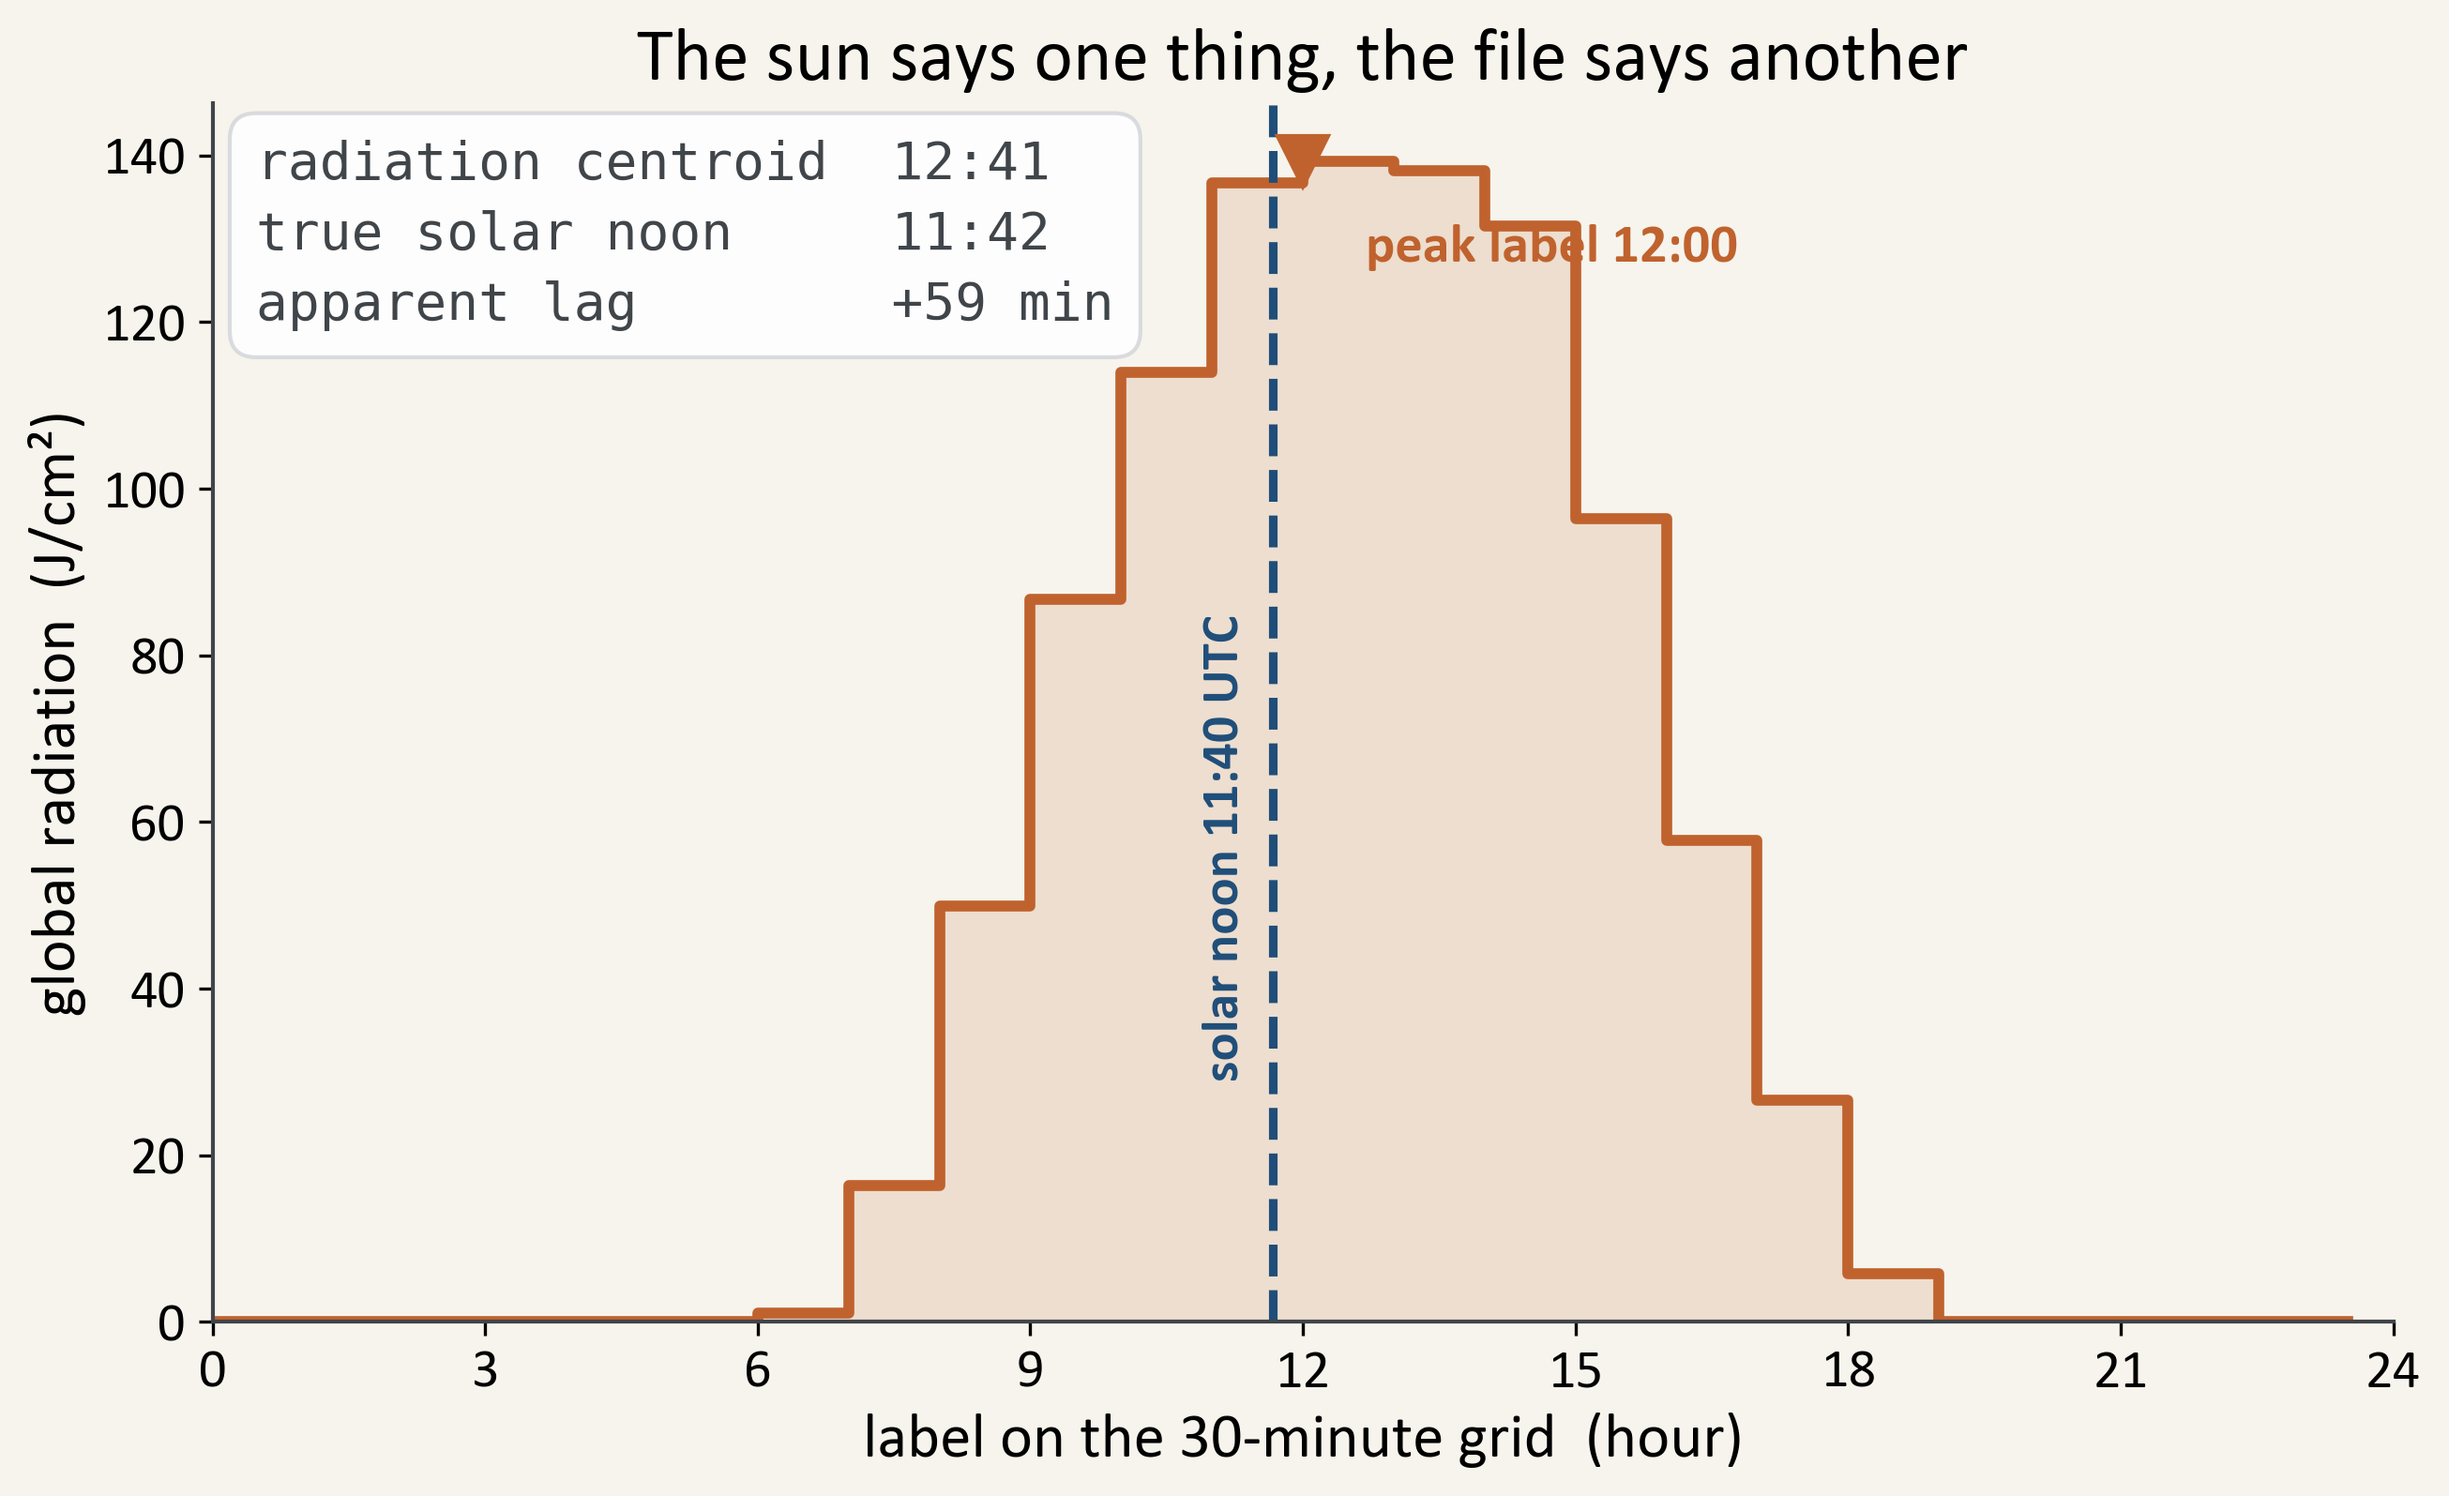
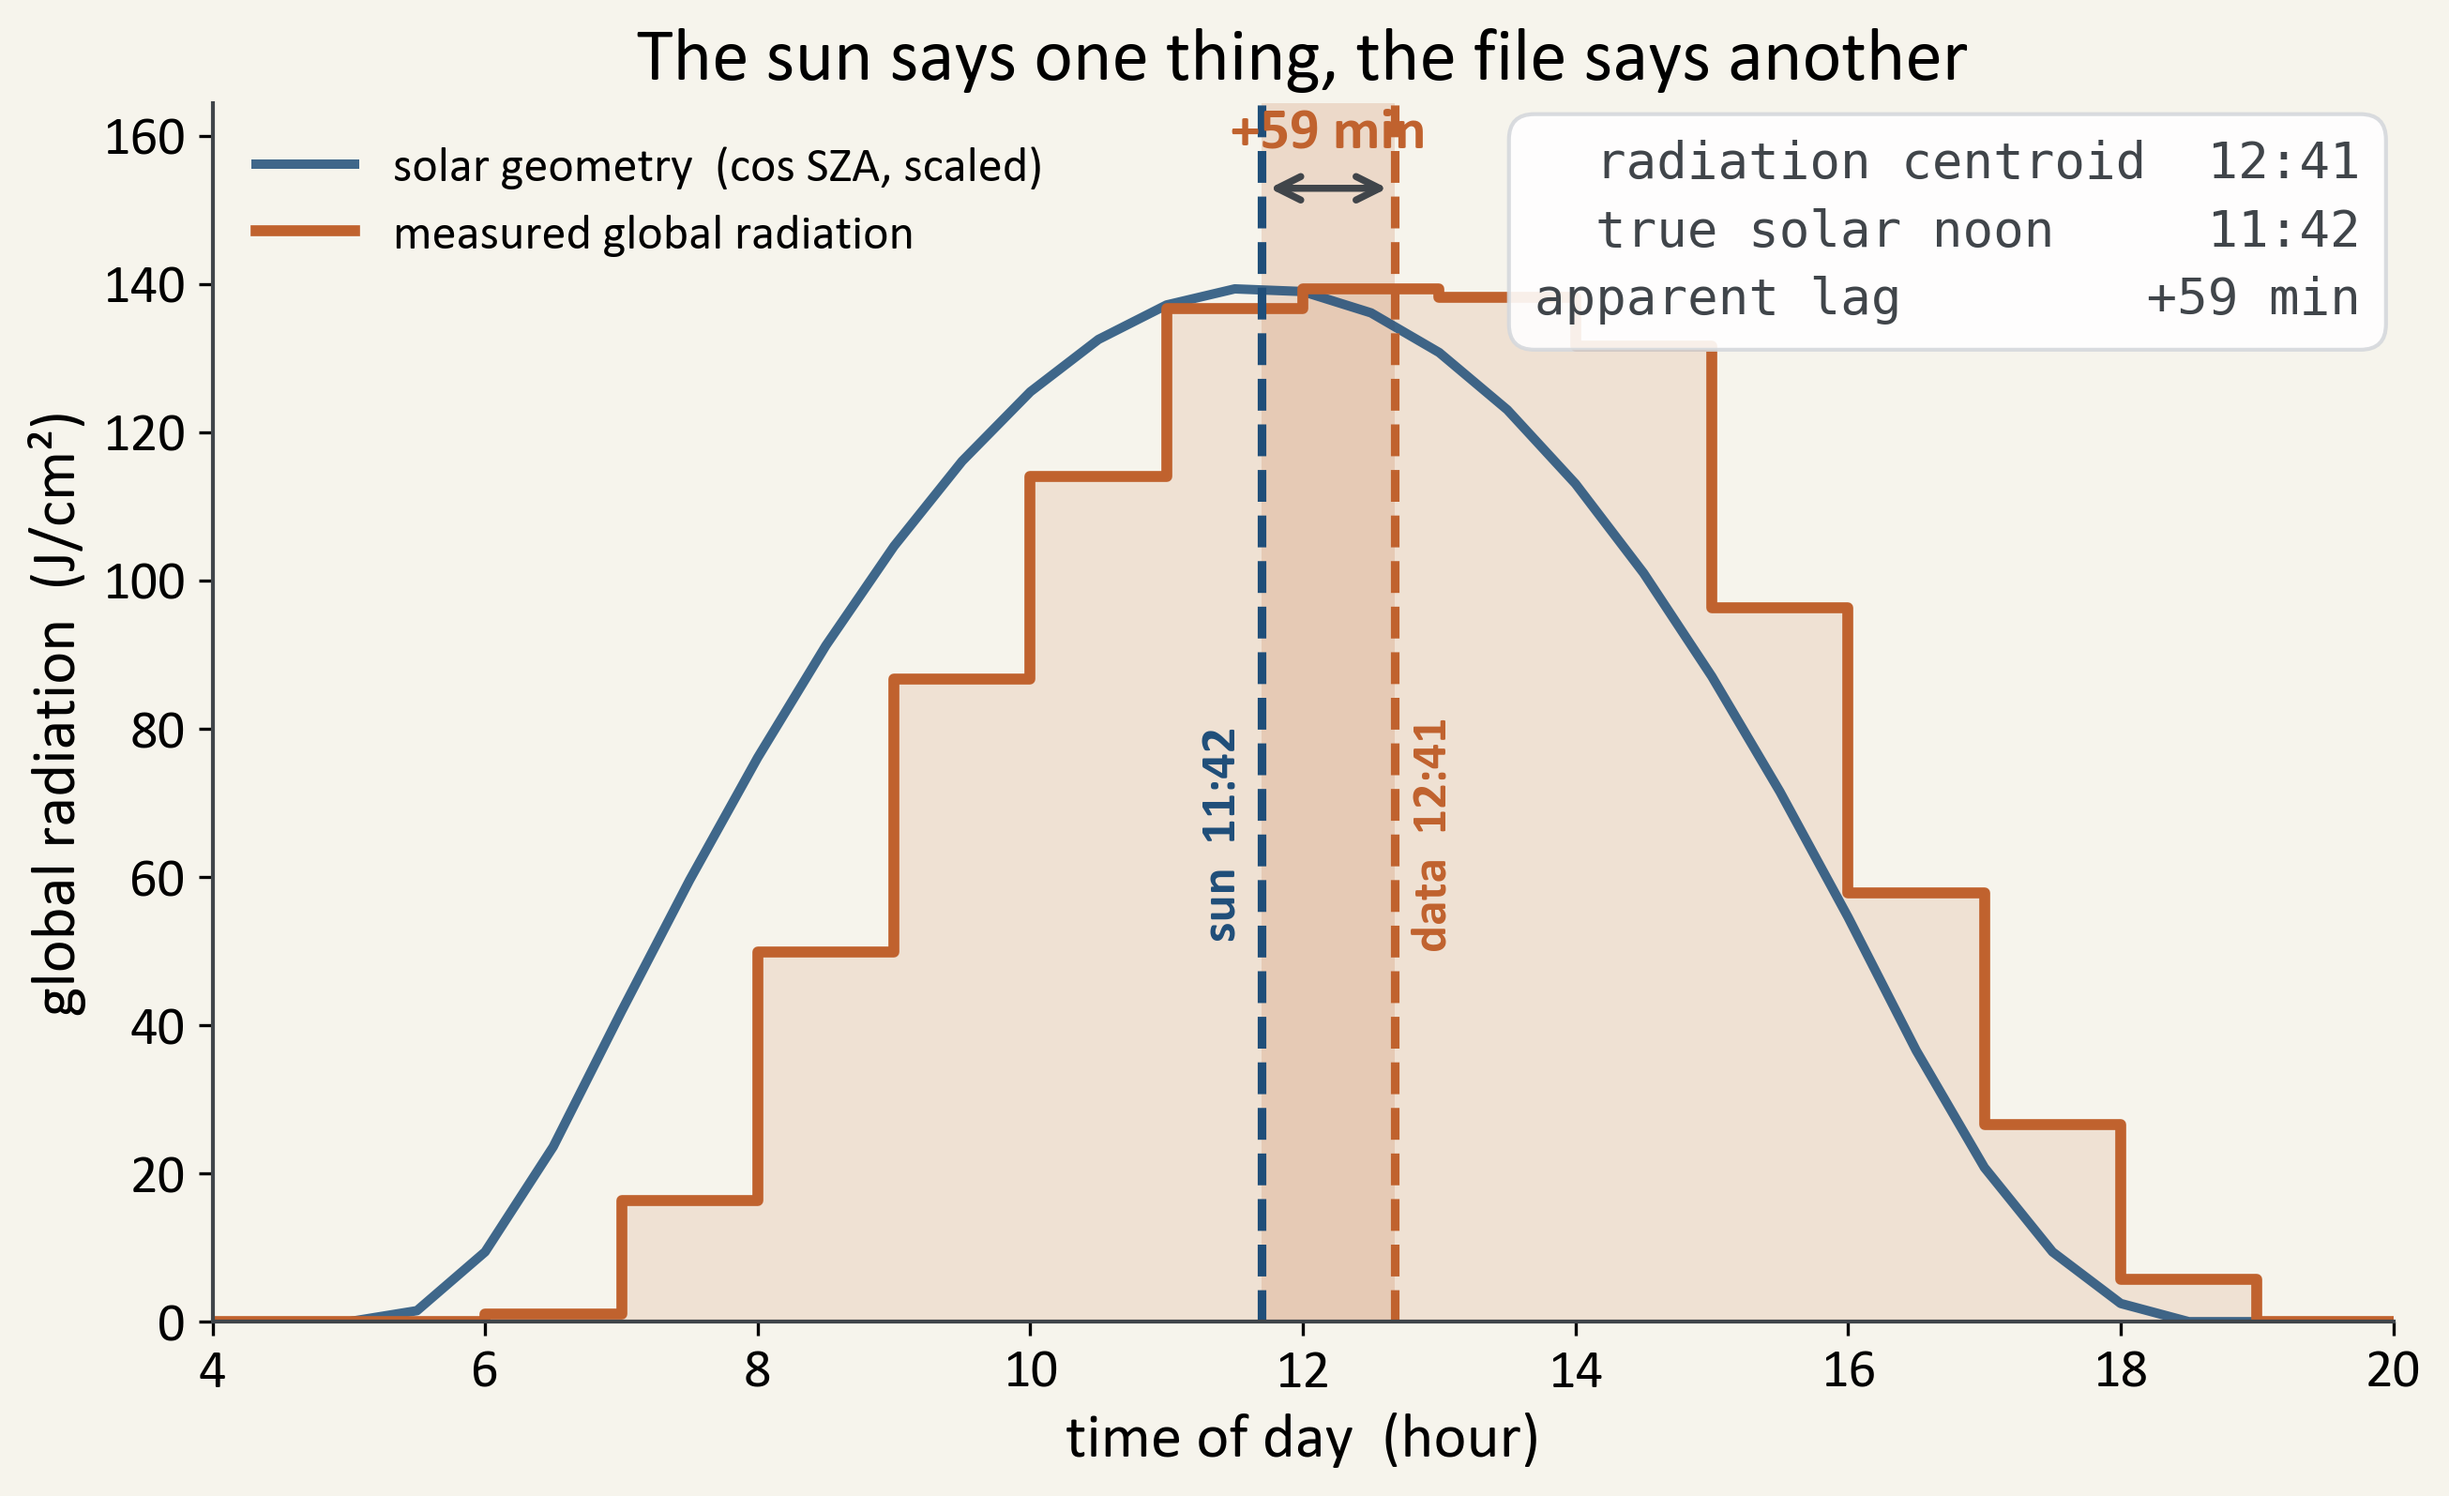
Rebuild the radiation figure so it actually shows the error
Georgios looked at slide18a and said the solar-noon line appeared to sit
on the peak. He was right, and the figure was at fault, not the data.

The campaign-mean radiation profile is a flat-topped plateau - 11:00 to
14:00 varies by under 3 %, and 12:00 and 12:30 are exactly tied at
139.3169 because of the met duplication. A one-hour shift of a plateau
that flat is invisible to the eye, and the +59 min is a property of the
CENTROID, which the old figure never drew. So it asserted the error in a
text box while showing apparent agreement - which would have undercut
him on stage the moment someone said "but the line is at the peak".

New slide18_radiation_before_after.png, which Georgios asked for as a
single figure: solar geometry, met as delivered, and the same met
shifted back an hour, on one axis, with both centroids drawn and the gap
shaded. Comparing two curves shows an offset that comparing a curve to a
line does not. x zoomed to 04-20 h so an hour is a visible fraction of
the width.

Found a convention bug while building it: the first version read +44 min
instead of +59. centroid_of() adds BIN_MID because the radiation values
are bin means whose label precedes the bin centre by 15 min; the solar
geometry is an instantaneous function evaluated AT the label and must
not get that correction. Applying it to both cancelled 15 of the 59
minutes. Fixed - the geometry centroid now prints 11:42 against a true
solar noon of 11:42, which is the check that confirms it.
[…]

diff --git a/prep/scripts/make_figures.py b/prep/scripts/make_figures.py
@@ -301,34 +301,128 @@ def fmt(h):
     return f"{int(h):02d}:{round((h % 1) * 60):02d}"
 
 
+# Mean solar-geometry profile, for overlay.
+#
+# NOTE ON THE CONVENTION, because getting this wrong cost a wrong number once:
+# the radiation values are BIN MEANS whose label sits 15 min before the bin
+# centre, so their centroid needs +BIN_MID (that is what centroid_of does).
+# The geometry is an INSTANTANEOUS function evaluated AT the label, so it is
+# already on true time and must NOT get that correction. Applying it to both
+# made the gap read +44 min instead of the correct +59.
+geo_prof = pd.Series(np.cos(np.deg2rad(solar_zenith(t))).clip(min=0),
+                     index=hlab).groupby(level=0).mean()
+_gw = geo_prof.clip(lower=0)
+geo_centroid = float((geo_prof.index * _gw).sum() / _gw.sum())   # no BIN_MID
+print(f"  solar-geometry centroid {fmt(geo_centroid)}  "
+      f"(true solar noon {fmt(noon_h)})")
+
+
 def rad_panel(profile, title, note, fname, mark_correct=False):
+    """Radiation diurnal against solar geometry.
+
+    The earlier version drew only a solar-noon line and the peak label. That was
+    honest in its numbers and misleading in its picture: the campaign-mean
+    radiation profile is a flat-topped plateau (11:00-14:00 varies by <3 %), so a
+    one-hour shift is invisible to the eye and the noon line appeared to sit ON
+    the peak. The lag is a property of the CENTROID, not of the peak, so the
+    centroid is now drawn. The geometry curve is overlaid for the same reason:
+    comparing two curves shows an offset that comparing a curve to a line does
+    not.
+    """
     fig, ax = plt.subplots(figsize=SIZE)
     fig.patch.set_facecolor(CREAM)
     ax.set_facecolor(CREAM)
     col = GREEN if mark_correct else ORANGE
-    ax.step(profile.index, profile.values, where="post", color=col, lw=2.8)
-    ax.fill_between(profile.index, 0, profile.values, step="post", color=col, alpha=.15)
-    ax.axvline(SOLAR_NOON_SLIDE, color=NAVY, lw=2.2, ls="--")
-    # sit the rotated label well below the crown so it cannot collide with the
-    # peak annotation, which lands near the top of the profile
-    ax.text(SOLAR_NOON_SLIDE - .28, ax.get_ylim()[1] * .58, "solar noon 11:40 UTC",
-            color=NAVY, rotation=90, va="top", ha="right", fontsize=13.5,
+    cen = centroid_of(profile)
+
+    # solar geometry, scaled to the radiation peak so the shapes are comparable
+    geo = geo_prof / geo_prof.max() * profile.max()
+    ax.plot(geo.index, geo.values, color=NAVY, lw=2.4, alpha=.85,
+            label="solar geometry  (cos SZA, scaled)")
+    ax.step(profile.index, profile.values, where="post", color=col, lw=2.8,
+            label="measured global radiation")
+    ax.fill_between(profile.index, 0, profile.values, step="post", color=col,
+                    alpha=.13)
+
+    top = profile.max() * 1.18
+    ax.set_ylim(0, top)
+
+    # the two centroids, and the gap between them - this is the actual claim
+    gap = (cen - geo_centroid) * 60
+    ax.axvline(geo_centroid, color=NAVY, lw=2.2, ls="--")
+    ax.axvline(cen, color=col, lw=2.2, ls="--")
+    ax.axvspan(min(geo_centroid, cen), max(geo_centroid, cen),
+               color=col if abs(gap) > 5 else GREEN, alpha=.18, lw=0)
+    y = top * .93
+    ax.annotate("", xy=(cen, y), xytext=(geo_centroid, y),
+                arrowprops=dict(arrowstyle="<->", color="#40454A", lw=1.8))
+    ax.text((geo_centroid + cen) / 2, top * .955,
+            f"{gap:+.0f} min" if abs(gap) > 5 else f"aligned ({gap:+.0f} min)",
+            ha="center", va="bottom", fontsize=15, fontweight="bold",
+            color=col if abs(gap) > 5 else GREEN)
+
+    ax.text(geo_centroid - .12, top * .40, f"sun  {fmt(geo_centroid)}",
+            color=NAVY, rotation=90, va="center", ha="right", fontsize=13,
             fontweight="bold")
-    pk = float(profile.idxmax())
-    ax.plot([pk], [profile.max()], marker="v", ms=13, color=col, zorder=5,
-            clip_on=False)
-    ax.annotate(f"peak label {fmt(pk)}", (pk, profile.max()),
-                textcoords="offset points", xytext=(16, -16), color=col,
-                fontsize=14, fontweight="bold", va="top", ha="left")
-    ax.set_xlabel("label on the 30-minute grid  (hour)")
+    ax.text(cen + .12, top * .40, f"data  {fmt(cen)}",
+            color=col, rotation=90, va="center", ha="left", fontsize=13,
+            fontweight="bold")
+
+    ax.set_xlabel("time of day  (hour)")
     ax.set_ylabel("global radiation  (J/cm²)")
     ax.set_title(title)
-    ax.set_xticks(range(0, 25, 3))
-    ax.set_xlim(0, 24)
-    ax.set_ylim(bottom=0)
-    ax.text(.02, .97, note, transform=ax.transAxes, va="top", ha="left",
-            fontsize=13.5, color="#40454A", linespacing=1.5, family="monospace",
+    ax.set_xticks(range(4, 21, 2))
+    ax.set_xlim(4, 20)
+    ax.legend(loc="upper left", fontsize=12.5, framealpha=.9)
+    ax.text(.985, .97, note, transform=ax.transAxes, va="top", ha="right",
+            fontsize=13, color="#40454A", linespacing=1.5, family="monospace",
             bbox=dict(boxstyle="round,pad=0.5", fc="white", ec="#D5D8DC", alpha=.9))
+    save(fig, fname)
+
+
+def rad_panel_both(prof_raw, prof_fixed, fname):
+    """The error and the fix in one figure: geometry, the misaligned data, and
+    the same data after the -1 h shift, with both centroids marked."""
+    fig, ax = plt.subplots(figsize=SIZE)
+    fig.patch.set_facecolor(CREAM)
+    ax.set_facecolor(CREAM)
+
+    top = max(prof_raw.max(), prof_fixed.max()) * 1.22
+    geo = geo_prof / geo_prof.max() * max(prof_raw.max(), prof_fixed.max())
+    ax.plot(geo.index, geo.values, color=NAVY, lw=2.6, alpha=.9,
+            label="solar geometry  (cos SZA, scaled)")
+    ax.step(prof_raw.index, prof_raw.values, where="post", color=ORANGE, lw=2.8,
+            label="met as delivered")
+    ax.step(prof_fixed.index, prof_fixed.values, where="post", color=GREEN,
+            lw=2.8, ls=(0, (5, 2)), label="met shifted back 1 h")
+
+    c_raw, c_fix = centroid_of(prof_raw), centroid_of(prof_fixed)
+    for c, colr in ((geo_centroid, NAVY), (c_raw, ORANGE), (c_fix, GREEN)):
+        ax.axvline(c, color=colr, lw=2.0, ls="--", alpha=.9)
+    ax.axvspan(geo_centroid, c_raw, color=ORANGE, alpha=.15, lw=0)
+
+    ax.set_ylim(0, top)
+    y = top * .78
+    ax.annotate("", xy=(c_raw, y), xytext=(geo_centroid, y),
+                arrowprops=dict(arrowstyle="<->", color=ORANGE, lw=2.0))
+    ax.text((geo_centroid + c_raw) / 2, top * .805,
+            f"{(c_raw - geo_centroid) * 60:+.0f} min", ha="center", va="bottom",
+            fontsize=16, fontweight="bold", color=ORANGE)
+    # centroid times in a compact box - drawn under the axis they overlapped
+    ax.text(.985, .97,
+            f"{'sun':<14}{fmt(geo_centroid)}\n"
+            f"{'as delivered':<14}{fmt(c_raw)}   {(c_raw - geo_centroid) * 60:+.0f} min\n"
+            f"{'corrected':<14}{fmt(c_fix)}   {(c_fix - geo_centroid) * 60:+.0f} min",
+            transform=ax.transAxes, va="top", ha="right", fontsize=13,
+            family="monospace", color="#40454A", linespacing=1.55,
+            bbox=dict(boxstyle="round,pad=0.5", fc="white", ec="#D5D8DC", alpha=.92))
+
+    ax.set_xlabel("time of day  (hour)")
+    ax.set_ylabel("global radiation  (J/cm²)")
+    ax.set_title("One hour late, and the same data after the shift")
+    ax.set_xticks(range(4, 21, 2))
+    ax.set_xlim(4, 20)
+    ax.legend(loc="upper left", fontsize=12.5, framealpha=.9)
     save(fig, fname)
 
 
@@ -396,6 +490,9 @@ rad_panel(rad_prof_c,
           f"{'true solar noon':<20}{fmt(noon_h)}\n"
           f"{'residual':<20}{lag_c * 60:+.0f} min",
           "slide21c_radiation_corrected.png", mark_correct=True)
+
+# the error and the fix in a single figure - Georgios' preferred version
+rad_panel_both(rad_prof, rad_prof_c, "slide18_radiation_before_after.png")
 
 N["case_study"] = {
     "period": f"{t.iloc[0]} .. {t.iloc[-1]} (full campaign, original file)",

diff --git a/prep/case_study_numbers.md b/prep/case_study_numbers.md
@@ -20,6 +20,56 @@ if you quote the label-based centroid instead, a *perfectly aligned* series look
 
 ---
 
+## ⭐ `slide18_radiation_before_after.png` — use this one
+
+Added 2026-09-24 at Georgios' request, and it supersedes panels (a) and (c) for
+presentation purposes. One figure: solar geometry, the met as delivered, and the
+same met shifted back an hour, with both centroids marked and the gap shaded.
+
+| | centroid | vs sun |
+|---|---|---|
+| solar geometry | **11:42** | — |
+| met as delivered | **12:41** | **+59 min** |
+| met shifted back 1 h | **11:41** | **−1 min** |
+
+### Why the old panel (a) was not usable
+
+Georgios looked at it and said the solar-noon line appeared to sit *on* the
+peak. He was right, and the figure was the problem, not the data. The
+campaign-mean radiation profile is a **flat-topped plateau** — 11:00 to 14:00
+varies by under 3 %, and 12:00 and 12:30 are exactly tied at 139.3169 because of
+the met duplication. A one-hour shift of a plateau that flat is invisible, and
+the +59 min is a property of the **centroid**, which the old figure never drew.
+It asserted the error in a text box while showing apparent agreement.
+
+The new figure fixes that by comparing two *curves* rather than a curve and a
+line, and by drawing both centroids.
+
+### ⚠ A convention bug found while building it
+
+The first version of the combined figure read **+44 min** instead of +59. Cause:
+`centroid_of()` adds `BIN_MID` (+15 min) because the radiation values are **bin
+means** whose label sits 15 min before the bin centre. The solar geometry is an
+**instantaneous** function evaluated *at* the label, so it is already on true
+time and must not get that correction. Applying it to both cancelled 15 of the
+59 minutes. Fixed; the geometry centroid now prints as 11:42, matching true
+solar noon exactly, which is the check that confirms it.
+
+### If a student asks why the corrected curve sits above the sun in the morning
+
+It does, and it is real, not a residual timing error:
+
+| | radiation / geometry |
+|---|---|
+| morning 06:00–11:30 | **1.069** |
+| afternoon 11:30–18:00 | **0.729** |
+
+Afternoons were cloudier than mornings over this campaign. Total energy is
+nearly balanced — 946 J/cm² morning against 912 afternoon — which is exactly why
+the centroid still lands at −1 min despite the visible limb asymmetry.
+
+---
+
 ## Panel (a) — `slide18a_radiation_uncorrected.png`
 
 Mean diurnal of `met_Global_Radiation (J/cm2)` against the 30-minute label.
